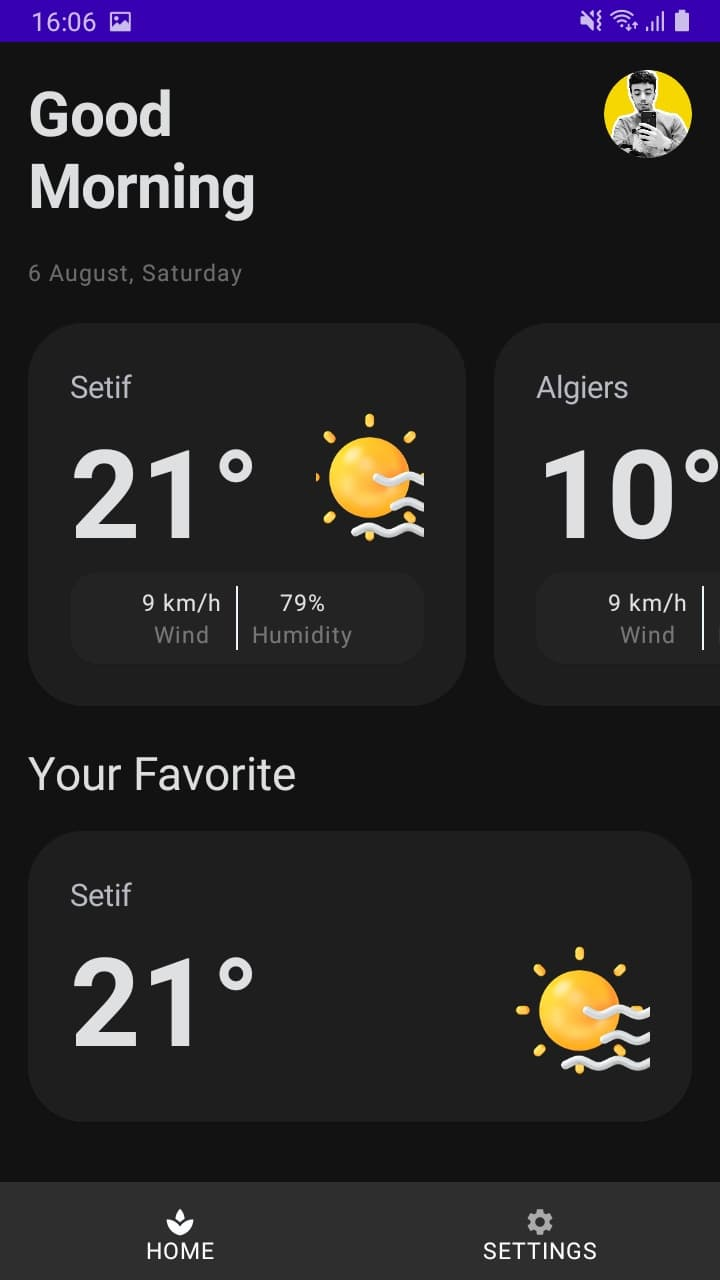
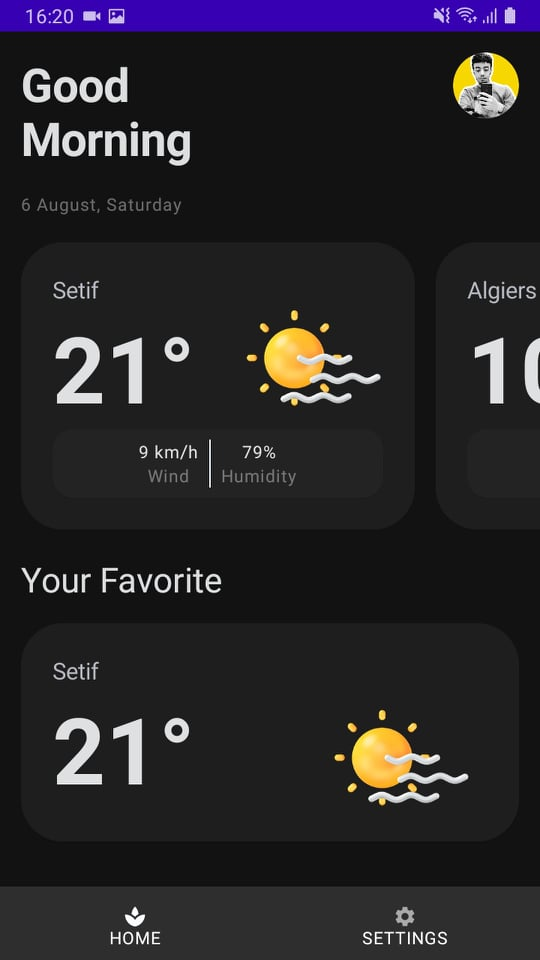
readme fixes

diff --git a/app/src/main/java/com/example/androiddevchallenge/ui/views/HomeView.kt b/app/src/main/java/com/example/androiddevchallenge/ui/views/HomeView.kt
@@ -241,7 +241,7 @@ fun CityView(
         elevation = 1.dp,
         shape = MaterialTheme.shapes.medium,
         modifier = modifier
-            .width(250.dp)
+            .width(300.dp)
     ) {
         Column(
             modifier = Modifier
@@ -264,12 +264,12 @@ fun CityView(
                     text = city.degree,
                     style = MaterialTheme.typography.h1
                 )
-                Spacer(Modifier.size(32.dp))
+                Spacer(Modifier.size(8.dp))
                 Image(
                     painter = painterResource(id = city.icon),
                     contentDescription = city.iconDesc,
                     modifier = Modifier
-                        .size(80.dp)
+                        .height(80.dp)
                         .alignByBaseline(),
                     contentScale = ContentScale.FillHeight
                 )
@@ -385,7 +385,7 @@ fun FavoritesView(
                             painter = painterResource(id = favoriteCity.value!!.icon),
                             contentDescription = favoriteCity.value!!.iconDesc,
                             modifier = Modifier
-                                .size(80.dp)
+                                .height(80.dp)
                                 .alignByBaseline(),
                             contentScale = ContentScale.FillHeight
                         )

diff --git a/app/src/main/java/com/example/androiddevchallenge/ui/views/BottomSheetView.kt b/app/src/main/java/com/example/androiddevchallenge/ui/views/BottomSheetView.kt
@@ -110,7 +110,7 @@ fun RowOtherDay(item: OtherDayModel) {
                 painter = painterResource(id = item.icon),
                 contentDescription = null,
                 modifier = Modifier
-                    .size(80.dp)
+                    .height(80.dp)
                     .padding(16.dp)
                     .alignByBaseline(),
                 contentScale = ContentScale.FillHeight
